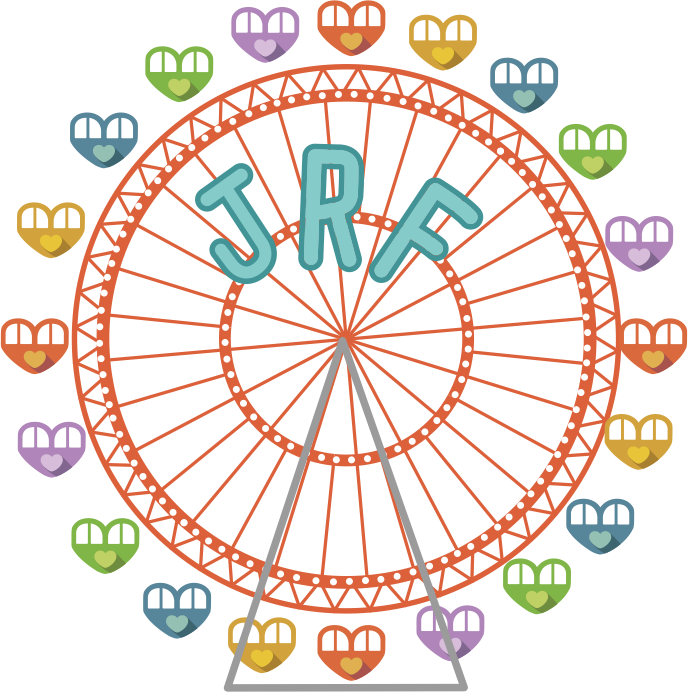
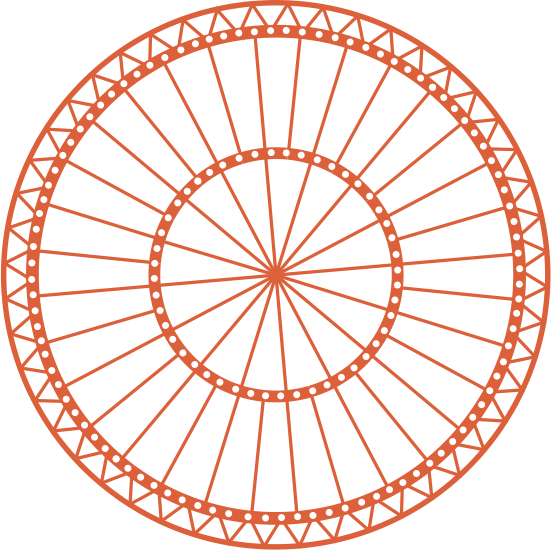
Add basic support for rolling ferris

diff --git a/css/parallax.css b/css/parallax.css
@@ -1,1 +1,1 @@
-body,html{margin:0;padding:0}.scene{overflow:hidden}.scene,.layer{position:absolute;width:100%;height:100%;margin:0;padding:0}.scene .layer .background{position:absolute;width:110%;height:110%;top:-5%;left:-5%;background:url("../assets/bg-cloud.png") center/cover no-repeat}.scene .layer .roller-coaster{position:absolute;background:url("../assets/bg-rollercoaster.png") no-repeat;width:794px;height:460px;background-size:contain;right:0.03%;bottom:0.09%}@media only screen and (min-width: 80em) and (max-width: 96em){.scene .layer .roller-coaster{width:714.6px;height:414px}}@media only screen and (min-width: 64em) and (max-width: 80em){.scene .layer .roller-coaster{width:595.5px;height:345px}}@media only screen and (max-width: 64em){.scene .layer .roller-coaster{width:397px;height:230px}}.scene .layer .balloon{position:absolute;background:url("../assets/bg-balloon.png") no-repeat;width:272px;height:227px;background-size:contain;right:3.2926829%;top:38.1818182%}@media only screen and (min-width: 80em) and (max-width: 96em){.scene .layer .balloon{width:244.8px;height:204.3px}}@media only screen and (min-width: 64em) and (max-width: 80em){.scene .layer .balloon{width:204px;height:170.25px}}@media only screen and (max-width: 64em){.scene .layer .balloon{width:136px;height:113.5px}}.scene .layer .elephant{position:absolute;background:url("../assets/bg-elephant.png") no-repeat;width:375px;height:347px;background-size:contain;right:25.1829268%;bottom:-2%}@media only screen and (min-width: 80em) and (max-width: 96em){.scene .layer .elephant{width:337.5px;height:312.3px}}@media only screen and (min-width: 64em) and (max-width: 80em){.scene .layer .elephant{width:281.25px;height:260.25px}}@media only screen and (max-width: 64em){.scene .layer .elephant{width:187.5px;height:173.5px}}.scene .layer .zeppelin{position:absolute;background:url("../assets/bg-zeppelin.png") no-repeat;width:300px;height:162px;background-size:contain;top:21.5909091%;right:10.7926829%}@media only screen and (min-width: 80em) and (max-width: 96em){.scene .layer .zeppelin{width:270px;height:145.8px}}@media only screen and (min-width: 64em) and (max-width: 80em){.scene .layer .zeppelin{width:225px;height:121.5px}}@media only screen and (max-width: 64em){.scene .layer .zeppelin{width:150px;height:81px}}.scene .layer .ground{position:absolute;width:110%;left:-5%;bottom:-1em;background:url("../assets/bg-ground.png") center bottom no-repeat;height:286px;background-size:contain}@media only screen and (min-width: 80em) and (max-width: 96em){.scene .layer .ground{height:257.4px}}@media only screen and (min-width: 64em) and (max-width: 80em){.scene .layer .ground{height:214.5px}}@media only screen and (max-width: 64em){.scene .layer .ground{height:143px}}.scene .layer .ferris-wheel{position:absolute;background:url("../assets/ferris-wheel.png") no-repeat;width:688px;height:692px;background-size:contain;left:8.8%;bottom:0}@media only screen and (min-width: 80em) and (max-width: 96em){.scene .layer .ferris-wheel{width:619.2px;height:622.8px}}@media only screen and (min-width: 64em) and (max-width: 80em){.scene .layer .ferris-wheel{width:516px;height:519px}}@media only screen and (max-width: 64em){.scene .layer .ferris-wheel{width:344px;height:346px}}.scene .layer .ice-cream-stand{position:absolute;background:url("../assets/bg-icecream.png") no-repeat;width:133px;height:178px;background-size:contain;right:10%;bottom:28.8636364%}@media only screen and (min-width: 80em) and (max-width: 96em){.scene .layer .ice-cream-stand{width:119.7px;height:160.2px}}@media only screen and (min-width: 64em) and (max-width: 80em){.scene .layer .ice-cream-stand{width:99.75px;height:133.5px}}@media only screen and (max-width: 64em){.scene .layer .ice-cream-stand{width:66.5px;height:89px}}.scene .layer .hot-balloon{position:absolute;background:url("../assets/bg-hotballoon.png") no-repeat;width:152px;height:243px;background-size:contain;top:15.7954545%;left:5.7926829%}@media only screen and (min-width: 80em) and (max-width: 96em){.scene .layer .hot-balloon{width:136.8px;height:218.7px}}@media only screen and (min-width: 64em) and (max-width: 80em){.scene .layer .hot-balloon{width:114px;height:182.25px}}@media only screen and (max-width: 64em){.scene .layer .hot-balloon{width:76px;height:121.5px}}.scene .layer .plane{position:absolute;background:url("../assets/bg-plane.png") no-repeat;width:348px;height:106px;background-size:contain;top:8.9772727%;right:30.9146341%}@media only screen and (min-width: 80em) and (max-width: 96em){.scene .layer .plane{width:313.2px;height:95.4px}}@media only screen and (min-width: 64em) and (max-width: 80em){.scene .layer .plane{width:261px;height:79.5px}}@media only screen and (max-width: 64em){.scene .layer .plane{width:174px;height:53px}}.scene .layer .stands{position:absolute;background:url("../assets/bg-stands.png") no-repeat;width:679px;height:217px;background-size:contain;right:51.2195122%;bottom:-.5em}@media only screen and (min-width: 80em) and (max-width: 96em){.scene .layer .stands{width:611.1px;height:195.3px}}@media only screen and (min-width: 64em) and (max-width: 80em){.scene .layer .stands{width:509.25px;height:162.75px}}@media only screen and (max-width: 64em){.scene .layer .stands{width:339.5px;height:108.5px}}.scene .layer .carousel{position:absolute;background:url("../assets/bg-carousel.png") no-repeat;width:215px;height:172px;background-size:contain;right:39.8902439%;bottom:-.5em}@media only screen and (min-width: 80em) and (max-width: 96em){.scene .layer .carousel{width:193.5px;height:154.8px}}@media only screen and (min-width: 64em) and (max-width: 80em){.scene .layer .carousel{width:161.25px;height:129px}}@media only screen and (max-width: 64em){.scene .layer .carousel{width:107.5px;height:86px}}.scene .layer .tent{position:absolute;background:url("../assets/bg-tent.png") no-repeat;width:124px;height:105px;background-size:contain;right:19.8170732%;bottom:-.5em}@media only screen and (min-width: 80em) and (max-width: 96em){.scene .layer .tent{width:111.6px;height:94.5px}}@media only screen and (min-width: 64em) and (max-width: 80em){.scene .layer .tent{width:93px;height:78.75px}}@media only screen and (max-width: 64em){.scene .layer .tent{width:62px;height:52.5px}}.scene .layer .jrf-20{position:absolute;background:url("../assets/bg-jrf20.png") no-repeat;width:286px;height:228px;background-size:contain;right:20.6707317%;bottom:-.5em}@media only screen and (min-width: 80em) and (max-width: 96em){.scene .layer .jrf-20{width:257.4px;height:205.2px}}@media only screen and (min-width: 64em) and (max-width: 80em){.scene .layer .jrf-20{width:214.5px;height:171px}}@media only screen and (max-width: 64em){.scene .layer .jrf-20{width:143px;height:114px}}.scene .layer .left-bench{position:absolute;background:url("../assets/bg-benchleft.png") no-repeat;width:186px;height:191px;background-size:contain;left:-5.304878%;bottom:-.5em}@media only screen and (min-width: 80em) and (max-width: 96em){.scene .layer .left-bench{width:167.4px;height:171.9px}}@media only screen and (min-width: 64em) and (max-width: 80em){.scene .layer .left-bench{width:139.5px;height:143.25px}}@media only screen and (max-width: 64em){.scene .layer .left-bench{width:93px;height:95.5px}}.scene .layer .right-bench{position:absolute;background:url("../assets/bg-benchright.png") no-repeat;width:329px;height:106px;background-size:contain;right:3.4878049%;bottom:-.5em}@media only screen and (min-width: 80em) and (max-width: 96em){.scene .layer .right-bench{width:296.1px;height:95.4px}}@media only screen and (min-width: 64em) and (max-width: 80em){.scene .layer .right-bench{width:246.75px;height:79.5px}}@media only screen and (max-width: 64em){.scene .layer .right-bench{width:164.5px;height:53px}}.scene .layer .popcorn{position:absolute;background:url("../assets/bg-popcorn.png") no-repeat;width:71px;height:95px;background-size:contain;right:17.195122%;bottom:-.5em}@media only screen and (min-width: 80em) and (max-width: 96em){.scene .layer .popcorn{width:63.9px;height:85.5px}}@media only screen and (min-width: 64em) and (max-width: 80em){.scene .layer .popcorn{width:53.25px;height:71.25px}}@media only screen and (max-width: 64em){.scene .layer .popcorn{width:35.5px;height:47.5px}}
+body,html{margin:0;padding:0}.scene{overflow:hidden}.scene,.layer{position:absolute;width:100%;height:100%;margin:0;padding:0}.scene .layer .background{position:absolute;width:110%;height:110%;top:-5%;left:-5%;background:url("../assets/bg-cloud.png") center/cover no-repeat}.scene .layer .roller-coaster{position:absolute;background:url("../assets/bg-rollercoaster.png") no-repeat;width:794px;height:460px;background-size:contain;right:0.03%;bottom:0.09%}@media only screen and (min-width: 80em) and (max-width: 96em){.scene .layer .roller-coaster{width:714.6px;height:414px}}@media only screen and (min-width: 64em) and (max-width: 80em){.scene .layer .roller-coaster{width:595.5px;height:345px}}@media only screen and (max-width: 64em){.scene .layer .roller-coaster{width:397px;height:230px}}.scene .layer .balloon{position:absolute;background:url("../assets/bg-balloon.png") no-repeat;width:272px;height:227px;background-size:contain;right:3.2926829%;top:38.1818182%}@media only screen and (min-width: 80em) and (max-width: 96em){.scene .layer .balloon{width:244.8px;height:204.3px}}@media only screen and (min-width: 64em) and (max-width: 80em){.scene .layer .balloon{width:204px;height:170.25px}}@media only screen and (max-width: 64em){.scene .layer .balloon{width:136px;height:113.5px}}.scene .layer .elephant{position:absolute;background:url("../assets/bg-elephant.png") no-repeat;width:375px;height:347px;background-size:contain;right:25.1829268%;bottom:-2%}@media only screen and (min-width: 80em) and (max-width: 96em){.scene .layer .elephant{width:337.5px;height:312.3px}}@media only screen and (min-width: 64em) and (max-width: 80em){.scene .layer .elephant{width:281.25px;height:260.25px}}@media only screen and (max-width: 64em){.scene .layer .elephant{width:187.5px;height:173.5px}}.scene .layer .zeppelin{position:absolute;background:url("../assets/bg-zeppelin.png") no-repeat;width:300px;height:162px;background-size:contain;top:21.5909091%;right:10.7926829%}@media only screen and (min-width: 80em) and (max-width: 96em){.scene .layer .zeppelin{width:270px;height:145.8px}}@media only screen and (min-width: 64em) and (max-width: 80em){.scene .layer .zeppelin{width:225px;height:121.5px}}@media only screen and (max-width: 64em){.scene .layer .zeppelin{width:150px;height:81px}}.scene .layer .ground{position:absolute;width:110%;left:-5%;bottom:-1em;background:url("../assets/bg-ground.png") center bottom no-repeat;height:286px}@media only screen and (min-width: 80em) and (max-width: 96em){.scene .layer .ground{height:257.4px;background-size:90%}}@media only screen and (min-width: 64em) and (max-width: 80em){.scene .layer .ground{height:214.5px;background-size:75%}}@media only screen and (max-width: 64em){.scene .layer .ground{height:143px;background-size:50%}}.scene .layer .ferris-wheel{position:absolute;left:8.8%;bottom:0;width:688px;height:692px}@media only screen and (min-width: 80em) and (max-width: 96em){.scene .layer .ferris-wheel{width:619.2px;height:622.8px}}@media only screen and (min-width: 64em) and (max-width: 80em){.scene .layer .ferris-wheel{width:516px;height:519px}}@media only screen and (max-width: 64em){.scene .layer .ferris-wheel{width:344px;height:346px}}@keyframes wheel{from{transform:rotate(0deg);transform:rotate(0deg);transform:rotate(0deg);transform:rotate(0deg)}to{transform:rotate(360deg);transform:rotate(360deg);transform:rotate(360deg);transform:rotate(360deg)}}@keyframes wheel{from{transform:rotate(0deg);transform:rotate(0deg);transform:rotate(0deg);transform:rotate(0deg)}to{transform:rotate(360deg);transform:rotate(360deg);transform:rotate(360deg);transform:rotate(360deg)}}@keyframes wheel{from{transform:rotate(0deg);transform:rotate(0deg);transform:rotate(0deg);transform:rotate(0deg)}to{transform:rotate(360deg);transform:rotate(360deg);transform:rotate(360deg);transform:rotate(360deg)}}@keyframes reverse-wheel{from{transform:rotate(0deg);transform:rotate(0deg);transform:rotate(0deg);transform:rotate(0deg)}to{transform:rotate(-360deg);transform:rotate(-360deg);transform:rotate(-360deg);transform:rotate(-360deg)}}@keyframes reverse-wheel{from{transform:rotate(0deg);transform:rotate(0deg);transform:rotate(0deg);transform:rotate(0deg)}to{transform:rotate(-360deg);transform:rotate(-360deg);transform:rotate(-360deg);transform:rotate(-360deg)}}@keyframes reverse-wheel{from{transform:rotate(0deg);transform:rotate(0deg);transform:rotate(0deg);transform:rotate(0deg)}to{transform:rotate(-360deg);transform:rotate(-360deg);transform:rotate(-360deg);transform:rotate(-360deg)}}.scene .layer .ferris-wheel .wheel{position:absolute;top:10%;bottom:10%;left:10%;right:10%;background:url("../assets/ferris-wheel.png") center no-repeat;background-size:contain;animation:wheel 30s linear infinite;animation:wheel 30s linear infinite;animation:wheel 30s linear infinite}.scene .layer .ferris-wheel .cabin{position:absolute;background:url("../assets/ferris-cabin.png") no-repeat;width:688px;height:681px;background-size:contain;top:0;left:.2688406%;animation:reverse-wheel 30s linear infinite;animation:reverse-wheel 30s linear infinite;animation:reverse-wheel 30s linear infinite}@media only screen and (min-width: 80em) and (max-width: 96em){.scene .layer .ferris-wheel .cabin{width:619.2px;height:612.9px}}@media only screen and (min-width: 64em) and (max-width: 80em){.scene .layer .ferris-wheel .cabin{width:516px;height:510.75px}}@media only screen and (max-width: 64em){.scene .layer .ferris-wheel .cabin{width:344px;height:340.5px}}.scene .layer .ferris-wheel .text{position:absolute;background:url("../assets/ferris-text.png") no-repeat;width:290px;height:548px;background-size:contain;left:29.116087%;bottom:0}@media only screen and (min-width: 80em) and (max-width: 96em){.scene .layer .ferris-wheel .text{width:261px;height:493.2px}}@media only screen and (min-width: 64em) and (max-width: 80em){.scene .layer .ferris-wheel .text{width:217.5px;height:411px}}@media only screen and (max-width: 64em){.scene .layer .ferris-wheel .text{width:145px;height:274px}}.scene .layer .ice-cream-stand{position:absolute;background:url("../assets/bg-icecream.png") no-repeat;width:133px;height:178px;background-size:contain;right:10%;bottom:28.8636364%}@media only screen and (min-width: 80em) and (max-width: 96em){.scene .layer .ice-cream-stand{width:119.7px;height:160.2px}}@media only screen and (min-width: 64em) and (max-width: 80em){.scene .layer .ice-cream-stand{width:99.75px;height:133.5px}}@media only screen and (max-width: 64em){.scene .layer .ice-cream-stand{width:66.5px;height:89px}}.scene .layer .hot-balloon{position:absolute;background:url("../assets/bg-hotballoon.png") no-repeat;width:152px;height:243px;background-size:contain;top:15.7954545%;left:5.7926829%}@media only screen and (min-width: 80em) and (max-width: 96em){.scene .layer .hot-balloon{width:136.8px;height:218.7px}}@media only screen and (min-width: 64em) and (max-width: 80em){.scene .layer .hot-balloon{width:114px;height:182.25px}}@media only screen and (max-width: 64em){.scene .layer .hot-balloon{width:76px;height:121.5px}}.scene .layer .plane{position:absolute;background:url("../assets/bg-plane.png") no-repeat;width:348px;height:106px;background-size:contain;top:8.9772727%;right:30.9146341%}@media only screen and (min-width: 80em) and (max-width: 96em){.scene .layer .plane{width:313.2px;height:95.4px}}@media only screen and (min-width: 64em) and (max-width: 80em){.scene .layer .plane{width:261px;height:79.5px}}@media only screen and (max-width: 64em){.scene .layer .plane{width:174px;height:53px}}.scene .layer .stands{position:absolute;background:url("../assets/bg-stands.png") no-repeat;width:679px;height:217px;background-size:contain;right:51.2195122%;bottom:-.5em}@media only screen and (min-width: 80em) and (max-width: 96em){.scene .layer .stands{width:611.1px;height:195.3px}}@media only screen and (min-width: 64em) and (max-width: 80em){.scene .layer .stands{width:509.25px;height:162.75px}}@media only screen and (max-width: 64em){.scene .layer .stands{width:339.5px;height:108.5px}}.scene .layer .carousel{position:absolute;background:url("../assets/bg-carousel.png") no-repeat;width:215px;height:172px;background-size:contain;right:39.8902439%;bottom:-.5em}@media only screen and (min-width: 80em) and (max-width: 96em){.scene .layer .carousel{width:193.5px;height:154.8px}}@media only screen and (min-width: 64em) and (max-width: 80em){.scene .layer .carousel{width:161.25px;height:129px}}@media only screen and (max-width: 64em){.scene .layer .carousel{width:107.5px;height:86px}}.scene .layer .tent{position:absolute;background:url("../assets/bg-tent.png") no-repeat;width:124px;height:105px;background-size:contain;right:19.8170732%;bottom:-.5em}@media only screen and (min-width: 80em) and (max-width: 96em){.scene .layer .tent{width:111.6px;height:94.5px}}@media only screen and (min-width: 64em) and (max-width: 80em){.scene .layer .tent{width:93px;height:78.75px}}@media only screen and (max-width: 64em){.scene .layer .tent{width:62px;height:52.5px}}.scene .layer .jrf-20{position:absolute;background:url("../assets/bg-jrf20.png") no-repeat;width:286px;height:228px;background-size:contain;right:20.6707317%;bottom:-.5em}@media only screen and (min-width: 80em) and (max-width: 96em){.scene .layer .jrf-20{width:257.4px;height:205.2px}}@media only screen and (min-width: 64em) and (max-width: 80em){.scene .layer .jrf-20{width:214.5px;height:171px}}@media only screen and (max-width: 64em){.scene .layer .jrf-20{width:143px;height:114px}}.scene .layer .left-bench{position:absolute;background:url("../assets/bg-benchleft.png") no-repeat;width:186px;height:191px;background-size:contain;left:-5.304878%;bottom:-.5em}@media only screen and (min-width: 80em) and (max-width: 96em){.scene .layer .left-bench{width:167.4px;height:171.9px}}@media only screen and (min-width: 64em) and (max-width: 80em){.scene .layer .left-bench{width:139.5px;height:143.25px}}@media only screen and (max-width: 64em){.scene .layer .left-bench{width:93px;height:95.5px}}.scene .layer .right-bench{position:absolute;background:url("../assets/bg-benchright.png") no-repeat;width:329px;height:106px;background-size:contain;right:3.4878049%;bottom:-.5em}@media only screen and (min-width: 80em) and (max-width: 96em){.scene .layer .right-bench{width:296.1px;height:95.4px}}@media only screen and (min-width: 64em) and (max-width: 80em){.scene .layer .right-bench{width:246.75px;height:79.5px}}@media only screen and (max-width: 64em){.scene .layer .right-bench{width:164.5px;height:53px}}.scene .layer .popcorn{position:absolute;background:url("../assets/bg-popcorn.png") no-repeat;width:71px;height:95px;background-size:contain;right:17.195122%;bottom:-.5em}@media only screen and (min-width: 80em) and (max-width: 96em){.scene .layer .popcorn{width:63.9px;height:85.5px}}@media only screen and (min-width: 64em) and (max-width: 80em){.scene .layer .popcorn{width:53.25px;height:71.25px}}@media only screen and (max-width: 64em){.scene .layer .popcorn{width:35.5px;height:47.5px}}

diff --git a/scss/parallax.scss b/scss/parallax.scss
@@ -25,7 +25,7 @@ $widescreen-width: 96em;
 @mixin responsive-size($width: false, $height: false, $size: contain) {
     @if $width { width: $width; }
     @if $height { height: $height; }
-    @if $size != auto { background-size: contain; }
+    @if $size == contain { background-size: contain; }
 
     @media only screen and (min-width: $desktop-width) and (max-width: $widescreen-width) {
         @if $width { width: $width * $desktop-ratio; }
@@ -100,13 +100,52 @@ $widescreen-width: 96em;
         left: -5%;
         bottom: -1em;
         background: url('../assets/bg-ground.png') center bottom no-repeat;
-        @include responsive-size(false, 286px, auto 50%);
+        @include responsive-size(false, 286px, auto);
     }
 
     .ferris-wheel {
-        @include fixed-element('ferris-wheel.png');
+        position: absolute;
         left: 8.8%;
         bottom: 0;
+        @include responsive-size(688px, 692px, false);
+
+        @import "compass/css3/animation";
+        @import "compass/css3/transform";
+
+        $wheel-length: 30s;
+        @include keyframes(wheel) {
+            from { @include rotate(0deg); }
+            to { @include rotate(360deg); }
+        }
+
+        @include keyframes(reverse-wheel) {
+            from { @include rotate(0deg); }
+            to { @include rotate(-360deg); }
+        }
+
+        .wheel {
+            position: absolute;
+            top: 10%;
+            bottom: 10%;
+            left: 10%;
+            right: 10%;
+            background: url('../assets/ferris-wheel.png') center no-repeat;
+            background-size: contain;
+            @include animation(wheel $wheel-length linear infinite);
+        }
+
+        .cabin {
+            @include fixed-element('ferris-cabin.png');
+            top: 0;
+            left: .2688406%;
+            @include animation(reverse-wheel $wheel-length linear infinite);
+        }
+
+        .text {
+            @include fixed-element('ferris-text.png');
+            left: 29.116087%;
+            bottom: 0;
+        }
     }
 
     .ice-cream-stand {

diff --git a/index.html b/index.html
@@ -20,7 +20,13 @@
         <div class="layer" data-depth="0.15"><div class="roller-coaster"></div></div>
         <div class="layer" data-depth="0.20"><div class="balloon"></div></div>
         <div class="layer" data-depth="0.25"><div class="elephant"></div></div>
-        <div class="layer" data-depth="0.30"><div class="ferris-wheel"></div></div>
+        <div class="layer" data-depth="0.30">
+            <div class="ferris-wheel">
+                <div class="wheel"></div>
+                <div class="cabin"></div>
+                <div class="text"></div>
+            </div>
+        </div>
         <div class="layer" data-depth="0.35"><div class="ground"></div></div>
         <div class="layer" data-depth="0.30"><div class="ice-cream-stand"></div></div>
         <div class="layer" data-depth="0.40"><div class="stands"></div></div>
